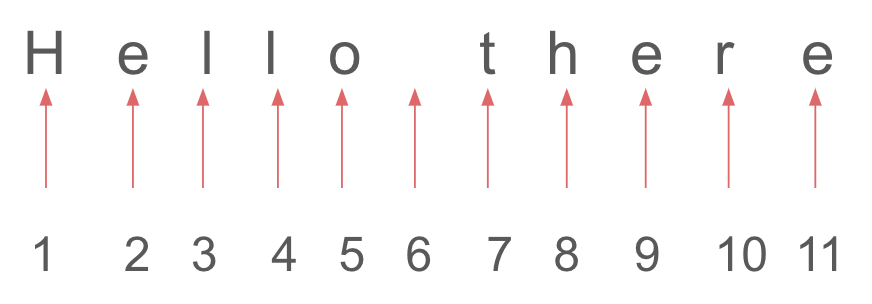
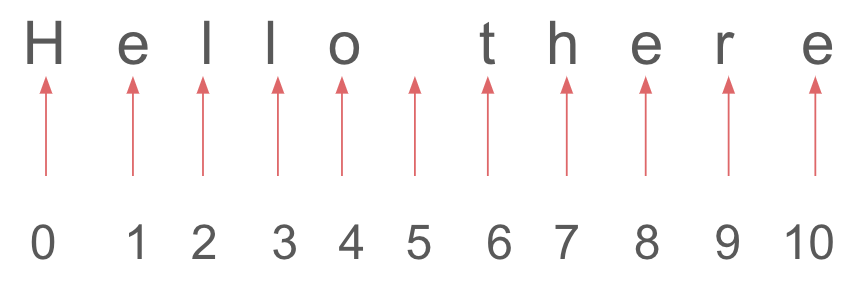
proof reading

diff --git a/learn_python/chapter5.html b/learn_python/chapter5.html
@@ -32,14 +32,13 @@
     <p>
       In the previous chapter we briefly talked about the internal (built-in) objects of Python and their functions.
       In this chapter we dive deeper into these objects and talk more about the functions from these objects.
-      We also introduce a couple of more objects that helps us use Python more effectively.
     </p>
     <img src="../images/learn_python/chapter5/RealPython.png" width="60%" class="image">
     <p>
       We are going to do some <i>data processing</i> at the end of this chapter.
-      This means that you will write functions that in their input recieve some data, and produce some output.
-      For that reason, we start with knowing Python functinos better, then we work on series of questions that recieves
-      input and return outputs.
+      This means that you will write functions that recieve some data, from their input arguments,
+      and produce some output, which they will return.
+      For that reason, we start with learning more about Python functinos and their input arguments.
     </p>
     <h2>Functions</h2>
     <p>
@@ -64,7 +63,7 @@ print(answer)
 
     <h3>Named arguments</h3>
     <p>
-      So far we have mostly used the functions as the above:
+      So far we have mostly used the functions like we did in the above example:
       inserting the inputs to the function (which we call arguments or parameters) in the order they are expected.
       There is another very common way for doing this.
       You can directly assign values to the input arguments by their names.
@@ -119,38 +118,39 @@ print(subtract(a=5, b=2))
     </p>
     <h3>Substring</h3>
     <p>
-      To many of the functions that work with <span class="inline-code">String</span> objects in Python,
-      we first need to what is <strong>substring</strong>.
-      A substring is a part of a <span class="inline-code">String</span> that can be a <span
-        class="inline-code">count</span> on its own.
+      To understand many of the functions that work with <span class="inline-code">String</span> objects in Python,
+      we first need to know what is a <strong>substring</strong>.
+      A substring is a contiguous part of a <span class="inline-code">String</span> that can be a
+      <span class="inline-code">String</span> by itself.
       For example, "side" is substring of "re<span style="color: red;">side</span>nce".
       Similarly, "ve ca" is substring of "I ha<span style="color: red;">ve ca</span>ts and they are cute."
-      But as far as python knows "new" is NOT a substring of "New providence" because for Python "new" and "New" are two
-      different strings.
+      But as far as python knows "new" is NOT a substring of "New providence"
+      because for Python "new" and "New" are two different strings.
     </p>
     <h3>String index</h3>
     <p>
-      So far we have seen Python strigns as a single entity. But in fact each string is like a lit of characters.
-      As any other list the objects inside it have index (Don't forget that this index starts from 0, not 1).
+      So far we have seen Python strigns as a single entity. But in fact each string is like a <i>list</i> of
+      characters.
+      As any other list, the objects inside it have index (Don't forget that this index starts from 0, not 1).
     </p>
     <img src="../images/learn_python/chapter5/StringIndex.png" width="60%" class="image">
     <p>
       Therefore, you can use the same indexing number we used for lists in Python with strings.
-      Try finding out the output of the following code:
+      Try figuring out the output of the following code:
     </p>
     <pre><code class="language-python"># String index
 # Indexing for a list
-my_list = [6, 7, 8, 9]
+my_list = [2, 6, 7, 8, 9]
 print(my_list[3])
 
 my_string = "carrots"
-print(my_string[2])
+print(my_string[5])
 </code></pre>
 
     <div class="output-box">
       8
       <br>
-      r
+      t
     </div>
 
     <h3><span class="inline-code">count</span></h3>
@@ -159,7 +159,7 @@ print(my_string[2])
     </p>
     <pre><code class="language-python"># Using the count function
 S = "I can not have an apple."
-# This will return 2 because of "an" substrings in "can" and "an"
+# This will count the number of "an" substrings in String S
 print(S.count("an"))
 </code></pre>
 
@@ -174,7 +174,6 @@ print(S.count("an"))
 S = "I can not have an apple."
 print(S.find("have"))
 
-# This will return -1, meaning the substring we are looking for is not in this string
 print(S.find("cat"))
 </code></pre>
 
@@ -211,30 +210,32 @@ print(S2)
     <img src="../images/learn_python/chapter5/split.png" width="60%" class="image">
 
     <p>
-      Example of how to use the <span class="inline-code">split</span> function.
+      Pay attention to the following example of how to use the <span class="inline-code">split</span> function.
+    </p>
+    <pre><code class="language-python"># Splitting the string into a list of its substrings
+splitted_parts = "cat, dog , chickens , good,boy".split(",")
+print(splitted_parts)
+</code></pre>
+    <p>
       Notice how we use the string function differently in the example below?
       So far we have been creating a string object first,
       and then calling that with the function that we needed.
       But we don't have to do that; we can directly use any of these functions on a string.
       In fact what happens here is that Python creates an anonymous object for you.
     </p>
-    <pre><code class="language-python"># Splitting the string into a list of its substrings
-splitted_parts = "cat, dog , chickens , good,boy".split(",")
-print(splitted_parts)
-</code></pre>
 
     <div class="output-box">
       ['cat', ' dog ', ' chickens ', ' good', 'boy']
     </div>
 
     <div class="box">
-      Sometimes using the <span class="inline-code">split</span> function makes left over space before and after the
-      returned strings.
-      For example, <span class="inline-code">"Hello, I am here".split(",")</span> returns
-      <span class="inline-code">["Hello", " I am here"]</span>. As you see the second strin has an extra space in front
-      of it.
-      There is a function called <span class="inline-code">strip()</span> that returns a string in which the extra
-      spaces,
+      Sometimes using the <span class="inline-code">split</span>
+      function makes left over space before and after the returned strings.
+      For example, <span class="inline-code">"Hello, I am here".split(",")</span>
+      returns <span class="inline-code">["Hello", " I am here"]</span>.
+      As you see, the second string has an extra space in front of it.
+      There is a function called <span class="inline-code">strip()</span>
+      that returns a string in which the extra spaces,
       before and after the string are removed.
       Think about how you can remove all the extra spaces from the returned strigns in the list.
     </div>
@@ -275,8 +276,8 @@ print(" are cute. ".join(my_animals))
     <p>
       Now let's talk about another important built-in object in Python: <strong>list</strong>.
       We already introduced <span class="inline-code">append</span> and <span class="inline-code">count</span>.
-      Remember that the first one is adds an element to the end of the string,
-      and the latter latter counts the number of occurances of an element inside the list.
+      Remember that the first one adds an element to the end of the string,
+      and the latter counts the number of occurances of an element inside the list.
       Have a quick look at chapter 3 to refresh your mind on these two functions.
     </p>
     <pre><code class="language-python"># list functions: append and count
@@ -298,18 +299,24 @@ print(my_favorite_numbers.count(6))
 
     <h3>Slicing a list</h3>
     <p>
-      We know how to get one element from a list. What if we wanted to get a contiguous elemtns inside a row?
+      We know how to get one element from a list.
+      But what if we wanted to get some contiguous elements altogether?
       In other words, you wanted to have a new list from the ranges of indexes of your original list.
       This is what we call a <strong>slice</strong> from the original list.
       See the image below for illustration of the slice.
     </p>
     <img src="../images/learn_python/chapter5/list_slice.png" width="65%" class="image">
     <p>
-      It is import to remember in Python (as well as many other languages)
+      It is import to remember that in Python (as well as many other languages)
       when you have two numbers for the start and the end of your slice, the first one is inclusive
       (meaning the element in that index is part of your slice) and the second one is not.
       And of course, don't forget that we start counting from 0 in computer science.
     </p>
+
+    <div class="box">
+      Slices for lists are like substrings for strings.
+      Do you see their resemblence?
+    </div>
 
     <div class="box">
       Try writting a function that generates a slice of an array.
@@ -436,7 +443,8 @@ print(my_numbers)
     <p>
       Sorting a list is putting its items in a order from the lowest to highest.
       In Python you easily do this with any list using the <span class="inline-code">sort</span> function.
-      Similar to the <span class="inline-code">reverse</span> function <span class="inline-code">sort</span> is working in-place.
+      Similar to the <span class="inline-code">reverse</span> function <span class="inline-code">sort</span> is working
+      in-place.
       So it does not return a new list, it just rearranges the items around your list.
     </p>
 
@@ -446,19 +454,19 @@ my_numbers = [6, 2, 8, 9, 4, 1]
 my_numbers.sort()
 print(my_numbers)
 </code></pre>
-      
+
     <div class="output-box">
       [1, 2, 4, 6, 8, 9]
     </div>
 
     <h2>Dictionary</h2>
     <p>
-      Time to explore another important built-in obejct in Python: dictionary.
+      Time to explore another important built-in obejct in Python: <strong>dictionary</strong>.
       Remember that dictionaries are very similar to lists.
       Both lists and dictionaries are for keeping a colleciton of other objects in them.
       Their main difference is that lists are using the <i>index</i> (an integer value) to find objects in them,
       whereas dictionaries use <i>keys</i>.
-      Python just counts where your items in your list and calls it the <i>index</i>,
+      Python just counts where your items in your list is and calls it the <i>index</i>,
       but in dictionaries you decide what the key is going to be.
       Here is another reminder of how dictionaries work.
     </p>
@@ -500,7 +508,7 @@ print("Jenny's score is", game_score["Jenny"])
 game_score = {'Jenny': 6, 'Peter': 3, 'Alice': 4}
 for k in game_score.keys():
       print(k)
-</code></pre>    
+</code></pre>
 
     <div class="output-box">
       Jenny
@@ -512,8 +520,9 @@ for k in game_score.keys():
 
     <h4><span class="inline-code">values</span></h4>
     <p>
-      The <span class="inline-code">values</span> function is very similar to the <span class="inline-code">values</span> function.
-      But as the name suggests, it returns the values in the dictionary instead of the keys.
+      The <span class="inline-code">values</span> function is very similar to the
+      <span class="inline-code">keys</span> function.
+      But, as the name suggests, it returns the values in the dictionary instead of the keys.
     </p>
 
     <pre><code class="language-python"># Looping over dictionary keys
@@ -521,7 +530,7 @@ for k in game_score.keys():
 game_score = {'Jenny': 6, 'Peter': 3, 'Alice': 4}
 for v in game_score.values():
     print(v)
-</code></pre>    
+</code></pre>
 
     <div class="output-box">
       6
@@ -529,6 +538,17 @@ for v in game_score.values():
       3
       <br>
       4
+    </div>
+
+    <div class="box">
+      The <span class="inline-code">keys</span> and <span class="inline-code">values</span>
+      functions return something callled and <i>iterator</i>. That is why we used them with loops.
+      Talking about iterators is beyound this class.
+      But if you wanted to use the returned values of these functions easier,
+      you can always turn them into a list.
+      For example, <span class="inline-code">list(game_score.keys())</span>
+      returns a list with all the keys in the <span class="inline-code">game_score</span> dictionary.
+      You can do the exact same thing with the values too.
     </div>
 
     <h3>Checking if a key is in a dictionary</h3>
@@ -543,7 +563,7 @@ if 'Bob' in game_score:
     print("Bob's score is", game_score["Bob"])
 else:
     print("Bob does not have a score in this game.")
-</code></pre>    
+</code></pre>
 
     <div class="output-box">
       Bob does not have a score in this game.
@@ -560,7 +580,7 @@ if 7 in my_numbers:
     print("The list of numbers includes 7.")
 else:
     print("7 is not in the list of numbers.")
-</code></pre>    
+</code></pre>
 
     <div class="output-box">
       The list of numbers includes 7.
